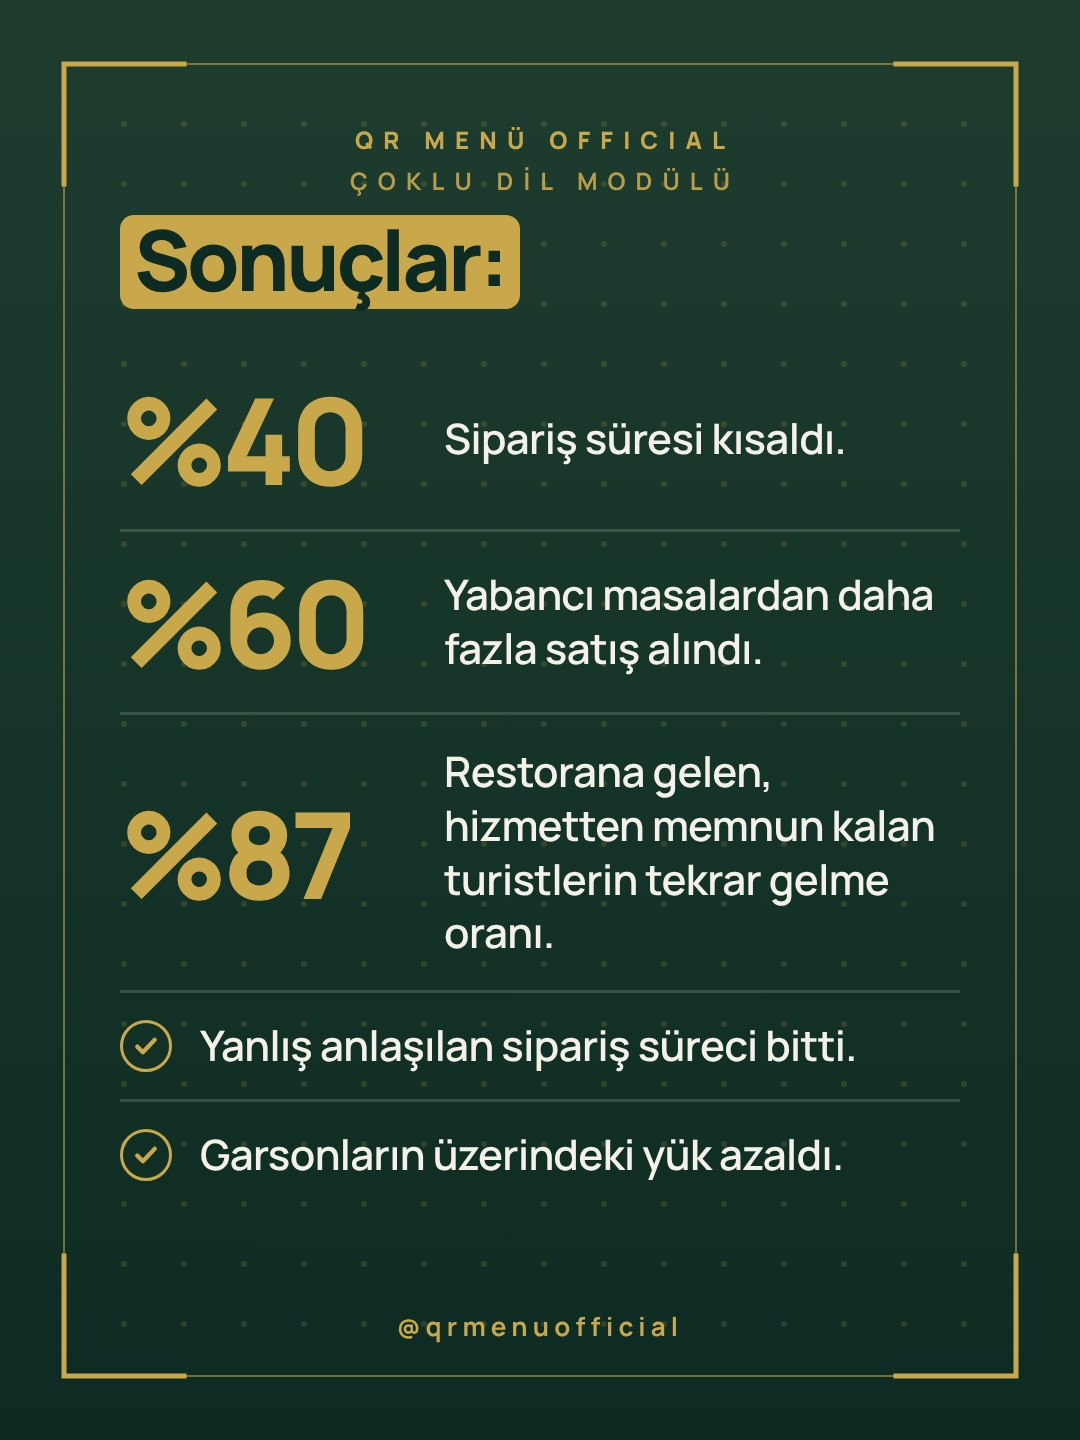
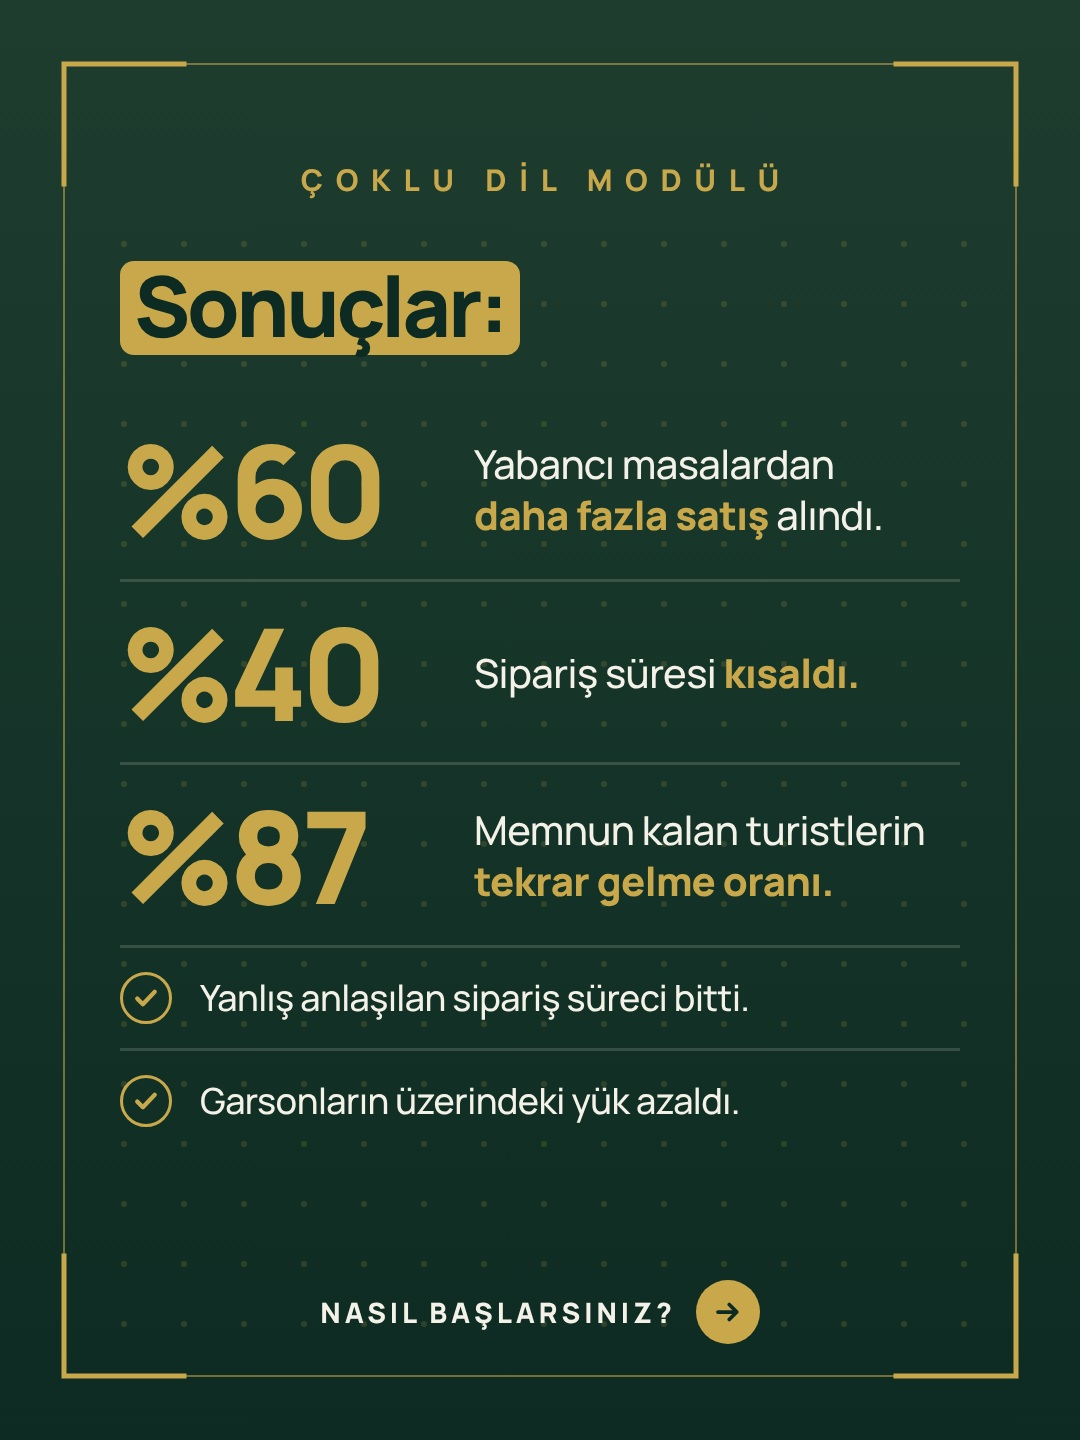
Carousel slayt 4: sonuçlar, %60 öne, anlamlı vurgu, CTA
Claude-Session: https://claude.ai/code/session_01FBw9rVwrniVjyFvtgVdFXq

diff --git a/analiz/carousel-dil/carousel-v6.html b/analiz/carousel-dil/carousel-v6.html
@@ -101,6 +101,12 @@ body{background:linear-gradient(var(--y2),var(--y))!important;color:var(--off)!i
 .p4{font-weight:500;font-size:42px;line-height:1.32;letter-spacing:-.01em}
 .p4 b{color:var(--g)}
 .p3 span,.p4 span{display:block;white-space:nowrap}
+.row{grid-template-columns:330px 1fr!important;padding:26px 0!important}
+.row .num{font-size:128px!important;line-height:1}
+.row .d{font-size:40px!important;font-weight:500!important;line-height:1.28}
+.row .d b,.chk .d b{color:var(--g);font-weight:800}
+.chk{padding:24px 0!important}
+.chk .d{font-size:36px!important;font-weight:500!important}
 </style></head><body>
 <svg class="rg a" width="1080" height="1440" viewBox="0 0 1080 1440" fill="none"><g><circle cx="1200" cy="300" r="180" stroke="#0D2B22" stroke-width="3.0" opacity="0.198"/><circle cx="1200" cy="300" r="300" stroke="#0D2B22" stroke-width="2.6" opacity="0.162"/><circle cx="1200" cy="300" r="420" stroke="#0D2B22" stroke-width="2.2" opacity="0.126"/><circle cx="1200" cy="300" r="540" stroke="#0D2B22" stroke-width="2.0" opacity="0.095"/><circle cx="1200" cy="300" r="660" stroke="#0D2B22" stroke-width="1.6" opacity="0.068"/><circle cx="1200" cy="300" r="780" stroke="#0D2B22" stroke-width="1.4" opacity="0.045"/><circle cx="1200" cy="300" r="900" stroke="#0D2B22" stroke-width="1.2" opacity="0.032"/></g><g><circle cx="-120" cy="1560" r="180" stroke="#0D2B22" stroke-width="2.4" opacity="0.135"/><circle cx="-120" cy="1560" r="300" stroke="#0D2B22" stroke-width="2" opacity="0.099"/><circle cx="-120" cy="1560" r="420" stroke="#0D2B22" stroke-width="1.6" opacity="0.068"/><circle cx="-120" cy="1560" r="520" stroke="#0D2B22" stroke-width="1.3" opacity="0.045"/></g></svg> <svg class="rg z" width="1080" height="1440" viewBox="0 0 1080 1440" fill="none"><g><circle cx="1200" cy="300" r="180" stroke="#C9A84C" stroke-width="3.0" opacity="0.242"/><circle cx="1200" cy="300" r="300" stroke="#C9A84C" stroke-width="2.6" opacity="0.198"/><circle cx="1200" cy="300" r="420" stroke="#C9A84C" stroke-width="2.2" opacity="0.154"/><circle cx="1200" cy="300" r="540" stroke="#C9A84C" stroke-width="2.0" opacity="0.116"/><circle cx="1200" cy="300" r="660" stroke="#C9A84C" stroke-width="1.6" opacity="0.083"/><circle cx="1200" cy="300" r="780" stroke="#C9A84C" stroke-width="1.4" opacity="0.055"/><circle cx="1200" cy="300" r="900" stroke="#C9A84C" stroke-width="1.2" opacity="0.039"/></g><g><circle cx="-120" cy="1560" r="180" stroke="#C9A84C" stroke-width="2.4" opacity="0.165"/><circle cx="-120" cy="1560" r="300" stroke="#C9A84C" stroke-width="2" opacity="0.121"/><circle cx="-120" cy="1560" r="420" stroke="#C9A84C" stroke-width="1.6" opacity="0.083"/><circle cx="-120" cy="1560" r="520" stroke="#C9A84C" stroke-width="1.3" opacity="0.055"/></g></svg>
 <svg class="fr" width="1080" height="1440" viewBox="0 0 1080 1440" fill="none" stroke="#C9A84C" stroke-linecap="square"><rect x="64" y="64" width="952" height="1312" stroke-width="2" opacity=".55"/><g stroke-width="5"><path d="M64 184V64h120M896 64h120v120M1016 1256v120H896M184 1376H64V1256"/></g></svg><svg style="position:absolute;inset:0;z-index:0" width="1080" height="1440" fill="#C9A84C" opacity=".17"><circle cx="124" cy="244" r="3"/><circle cx="124" cy="304" r="3"/><circle cx="124" cy="364" r="3"/><circle cx="124" cy="424" r="3"/><circle cx="124" cy="484" r="3"/><circle cx="124" cy="544" r="3"/><circle cx="124" cy="604" r="3"/><circle cx="124" cy="664" r="3"/><circle cx="124" cy="724" r="3"/><circle cx="124" cy="784" r="3"/><circle cx="124" cy="844" r="3"/><circle cx="124" cy="904" r="3"/><circle cx="124" cy="964" r="3"/><circle cx="124" cy="1024" r="3"/><circle cx="124" cy="1084" r="3"/><circle cx="124" cy="1144" r="3"/><circle cx="124" cy="1204" r="3"/><circle cx="124" cy="1264" r="3"/><circle cx="124" cy="1324" r="3"/><circle cx="184" cy="244" r="3"/><circle cx="184" cy="304" r="3"/><circle cx="184" cy="364" r="3"/><circle cx="184" cy="424" r="3"/><circle cx="184" cy="484" r="3"/><circle cx="184" cy="544" r="3"/><circle cx="184" cy="604" r="3"/><circle cx="184" cy="664" r="3"/><circle cx="184" cy="724" r="3"/><circle cx="184" cy="784" r="3"/><circle cx="184" cy="844" r="3"/><circle cx="184" cy="904" r="3"/><circle cx="184" cy="964" r="3"/><circle cx="184" cy="1024" r="3"/><circle cx="184" cy="1084" r="3"/><circle cx="184" cy="1144" r="3"/><circle cx="184" cy="1204" r="3"/><circle cx="184" cy="1264" r="3"/><circle cx="184" cy="1324" r="3"/><circle cx="244" cy="244" r="3"/><circle cx="244" cy="304" r="3"/><circle cx="244" cy="364" r="3"/><circle cx="244" cy="424" r="3"/><circle cx="244" cy="484" r="3"/><circle cx="244" cy="544" r="3"/><circle cx="244" cy="604" r="3"/><circle cx="244" cy="664" r="3"/><circle cx="244" cy="724" r="3"/><circle cx="244" cy="784" r="3"/><circle cx="244" cy="844" r="3"/><circle cx="244" cy="904" r="3"/><circle cx="244" cy="964" r="3"/><circle cx="244" cy="1024" r="3"/><circle cx="244" cy="1084" r="3"/><circle cx="244" cy="1144" r="3"/><circle cx="244" cy="1204" r="3"/><circle cx="244" cy="1264" r="3"/><circle cx="244" cy="1324" r="3"/><circle cx="304" cy="244" r="3"/><circle cx="304" cy="304" r="3"/><circle cx="304" cy="364" r="3"/><circle cx="304" cy="424" r="3"/><circle cx="304" cy="484" r="3"/><circle cx="304" cy="544" r="3"/><circle cx="304" cy="604" r="3"/><circle cx="304" cy="664" r="3"/><circle cx="304" cy="724" r="3"/><circle cx="304" cy="784" r="3"/><circle cx="304" cy="844" r="3"/><circle cx="304" cy="904" r="3"/><circle cx="304" cy="964" r="3"/><circle cx="304" cy="1024" r="3"/><circle cx="304" cy="1084" r="3"/><circle cx="304" cy="1144" r="3"/><circle cx="304" cy="1204" r="3"/><circle cx="304" cy="1264" r="3"/><circle cx="304" cy="1324" r="3"/><circle cx="364" cy="244" r="3"/><circle cx="364" cy="304" r="3"/><circle cx="364" cy="364" r="3"/><circle cx="364" cy="424" r="3"/><circle cx="364" cy="484" r="3"/><circle cx="364" cy="544" r="3"/><circle cx="364" cy="604" r="3"/><circle cx="364" cy="664" r="3"/><circle cx="364" cy="724" r="3"/><circle cx="364" cy="784" r="3"/><circle cx="364" cy="844" r="3"/><circle cx="364" cy="904" r="3"/><circle cx="364" cy="964" r="3"/><circle cx="364" cy="1024" r="3"/><circle cx="364" cy="1084" r="3"/><circle cx="364" cy="1144" r="3"/><circle cx="364" cy="1204" r="3"/><circle cx="364" cy="1264" r="3"/><circle cx="364" cy="1324" r="3"/><circle cx="424" cy="244" r="3"/><circle cx="424" cy="304" r="3"/><circle cx="424" cy="364" r="3"/><circle cx="424" cy="424" r="3"/><circle cx="424" cy="484" r="3"/><circle cx="424" cy="544" r="3"/><circle cx="424" cy="604" r="3"/><circle cx="424" cy="664" r="3"/><circle cx="424" cy="724" r="3"/><circle cx="424" cy="784" r="3"/><circle cx="424" cy="844" r="3"/><circle cx="424" cy="904" r="3"/><circle cx="424" cy="964" r="3"/><circle cx="424" cy="1024" r="3"/><circle cx="424" cy="1084" r="3"/><circle cx="424" cy="1144" r="3"/><circle cx="424" cy="1204" r="3"/><circle cx="424" cy="1264" r="3"/><circle cx="424" cy="1324" r="3"/><circle cx="484" cy="244" r="3"/><circle cx="484" cy="304" r="3"/><circle cx="484" cy="364" r="3"/><circle cx="484" cy="424" r="3"/><circle cx="484" cy="484" r="3"/><circle cx="484" cy="544" r="3"/><circle cx="484" cy="604" r="3"/><circle cx="484" cy="664" r="3"/><circle cx="484" cy="724" r="3"/><circle cx="484" cy="784" r="3"/><circle cx="484" cy="844" r="3"/><circle cx="484" cy="904" r="3"/><circle cx="484" cy="964" r="3"/><circle cx="484" cy="1024" r="3"/><circle cx="484" cy="1084" r="3"/><circle cx="484" cy="1144" r="3"/><circle cx="484" cy="1204" r="3"/><circle cx="484" cy="1264" r="3"/><circle cx="484" cy="1324" r="3"/><circle cx="544" cy="244" r="3"/><circle cx="544" cy="304" r="3"/><circle cx="544" cy="364" r="3"/><circle cx="544" cy="424" r="3"/><circle cx="544" cy="484" r="3"/><circle cx="544" cy="544" r="3"/><circle cx="544" cy="604" r="3"/><circle cx="544" cy="664" r="3"/><circle cx="544" cy="724" r="3"/><circle cx="544" cy="784" r="3"/><circle cx="544" cy="844" r="3"/><circle cx="544" cy="904" r="3"/><circle cx="544" cy="964" r="3"/><circle cx="544" cy="1024" r="3"/><circle cx="544" cy="1084" r="3"/><circle cx="544" cy="1144" r="3"/><circle cx="544" cy="1204" r="3"/><circle cx="544" cy="1264" r="3"/><circle cx="544" cy="1324" r="3"/><circle cx="604" cy="244" r="3"/><circle cx="604" cy="304" r="3"/><circle cx="604" cy="364" r="3"/><circle cx="604" cy="424" r="3"/><circle cx="604" cy="484" r="3"/><circle cx="604" cy="544" r="3"/><circle cx="604" cy="604" r="3"/><circle cx="604" cy="664" r="3"/><circle cx="604" cy="724" r="3"/><circle cx="604" cy="784" r="3"/><circle cx="604" cy="844" r="3"/><circle cx="604" cy="904" r="3"/><circle cx="604" cy="964" r="3"/><circle cx="604" cy="1024" r="3"/><circle cx="604" cy="1084" r="3"/><circle cx="604" cy="1144" r="3"/><circle cx="604" cy="1204" r="3"/><circle cx="604" cy="1264" r="3"/><circle cx="604" cy="1324" r="3"/><circle cx="664" cy="244" r="3"/><circle cx="664" cy="304" r="3"/><circle cx="664" cy="364" r="3"/><circle cx="664" cy="424" r="3"/><circle cx="664" cy="484" r="3"/><circle cx="664" cy="544" r="3"/><circle cx="664" cy="604" r="3"/><circle cx="664" cy="664" r="3"/><circle cx="664" cy="724" r="3"/><circle cx="664" cy="784" r="3"/><circle cx="664" cy="844" r="3"/><circle cx="664" cy="904" r="3"/><circle cx="664" cy="964" r="3"/><circle cx="664" cy="1024" r="3"/><circle cx="664" cy="1084" r="3"/><circle cx="664" cy="1144" r="3"/><circle cx="664" cy="1204" r="3"/><circle cx="664" cy="1264" r="3"/><circle cx="664" cy="1324" r="3"/><circle cx="724" cy="244" r="3"/><circle cx="724" cy="304" r="3"/><circle cx="724" cy="364" r="3"/><circle cx="724" cy="424" r="3"/><circle cx="724" cy="484" r="3"/><circle cx="724" cy="544" r="3"/><circle cx="724" cy="604" r="3"/><circle cx="724" cy="664" r="3"/><circle cx="724" cy="724" r="3"/><circle cx="724" cy="784" r="3"/><circle cx="724" cy="844" r="3"/><circle cx="724" cy="904" r="3"/><circle cx="724" cy="964" r="3"/><circle cx="724" cy="1024" r="3"/><circle cx="724" cy="1084" r="3"/><circle cx="724" cy="1144" r="3"/><circle cx="724" cy="1204" r="3"/><circle cx="724" cy="1264" r="3"/><circle cx="724" cy="1324" r="3"/><circle cx="784" cy="244" r="3"/><circle cx="784" cy="304" r="3"/><circle cx="784" cy="364" r="3"/><circle cx="784" cy="424" r="3"/><circle cx="784" cy="484" r="3"/><circle cx="784" cy="544" r="3"/><circle cx="784" cy="604" r="3"/><circle cx="784" cy="664" r="3"/><circle cx="784" cy="724" r="3"/><circle cx="784" cy="784" r="3"/><circle cx="784" cy="844" r="3"/><circle cx="784" cy="904" r="3"/><circle cx="784" cy="964" r="3"/><circle cx="784" cy="1024" r="3"/><circle cx="784" cy="1084" r="3"/><circle cx="784" cy="1144" r="3"/><circle cx="784" cy="1204" r="3"/><circle cx="784" cy="1264" r="3"/><circle cx="784" cy="1324" r="3"/><circle cx="844" cy="244" r="3"/><circle cx="844" cy="304" r="3"/><circle cx="844" cy="364" r="3"/><circle cx="844" cy="424" r="3"/><circle cx="844" cy="484" r="3"/><circle cx="844" cy="544" r="3"/><circle cx="844" cy="604" r="3"/><circle cx="844" cy="664" r="3"/><circle cx="844" cy="724" r="3"/><circle cx="844" cy="784" r="3"/><circle cx="844" cy="844" r="3"/><circle cx="844" cy="904" r="3"/><circle cx="844" cy="964" r="3"/><circle cx="844" cy="1024" r="3"/><circle cx="844" cy="1084" r="3"/><circle cx="844" cy="1144" r="3"/><circle cx="844" cy="1204" r="3"/><circle cx="844" cy="1264" r="3"/><circle cx="844" cy="1324" r="3"/><circle cx="904" cy="244" r="3"/><circle cx="904" cy="304" r="3"/><circle cx="904" cy="364" r="3"/><circle cx="904" cy="424" r="3"/><circle cx="904" cy="484" r="3"/><circle cx="904" cy="544" r="3"/><circle cx="904" cy="604" r="3"/><circle cx="904" cy="664" r="3"/><circle cx="904" cy="724" r="3"/><circle cx="904" cy="784" r="3"/><circle cx="904" cy="844" r="3"/><circle cx="904" cy="904" r="3"/><circle cx="904" cy="964" r="3"/><circle cx="904" cy="1024" r="3"/><circle cx="904" cy="1084" r="3"/><circle cx="904" cy="1144" r="3"/><circle cx="904" cy="1204" r="3"/><circle cx="904" cy="1264" r="3"/><circle cx="904" cy="1324" r="3"/><circle cx="964" cy="244" r="3"/><circle cx="964" cy="304" r="3"/><circle cx="964" cy="364" r="3"/><circle cx="964" cy="424" r="3"/><circle cx="964" cy="484" r="3"/><circle cx="964" cy="544" r="3"/><circle cx="964" cy="604" r="3"/><circle cx="964" cy="664" r="3"/><circle cx="964" cy="724" r="3"/><circle cx="964" cy="784" r="3"/><circle cx="964" cy="844" r="3"/><circle cx="964" cy="904" r="3"/><circle cx="964" cy="964" r="3"/><circle cx="964" cy="1024" r="3"/><circle cx="964" cy="1084" r="3"/><circle cx="964" cy="1144" r="3"/><circle cx="964" cy="1204" r="3"/><circle cx="964" cy="1264" r="3"/><circle cx="964" cy="1324" r="3"/></svg><div class="s" id="S"></div>
@@ -146,15 +152,15 @@ const SL={
   <div class="p4" id="P4">${L(['Sadece işletmeler için değil,','{{turist müşteriler için de fark yarattı.}}'])}</div>
   <div class="h" id="H" data-max="84" data-min="68" style="margin-top:112px">${L(["Peki sonuçlar",'ne oldu?'])}</div>
  </div>${nx('Sonuçları görün','#F4F1E8')}`},
-4:{bg:'krem',html:()=>`<div class="lab">${MOD}</div>
- <div class="area top"><div class="h" id="H" data-max="84" data-min="64">${L(['[[Sonuçlar:]]'])}</div>
- <div style="margin-top:40px">
-  <div class="row"><div class="num">%40</div><div class="d">Sipariş süresi kısaldı.</div></div>
-  <div class="row"><div class="num">%60</div><div class="d">Yabancı masalardan daha fazla satış alındı.</div></div>
-  <div class="row"><div class="num">%87</div><div class="d">Restorana gelen, hizmetten memnun kalan turistlerin tekrar gelme oranı.</div></div>
+4:{bg:'krem',html:()=>`<div class="lab" style="font-size:30px;padding-top:34px">ÇOKLU DİL MODÜLÜ</div>
+ <div class="area top" style="top:236px;bottom:240px"><div class="h" id="H" data-max="84" data-min="68">${L(['[[Sonuçlar:]]'])}</div>
+ <div style="margin-top:44px">
+  <div class="row"><div class="num">%60</div><div class="d">Yabancı masalardan<br><b>daha fazla satış</b> alındı.</div></div>
+  <div class="row"><div class="num">%40</div><div class="d">Sipariş süresi <b>kısaldı.</b></div></div>
+  <div class="row"><div class="num">%87</div><div class="d">Memnun kalan turistlerin <b>tekrar gelme oranı.</b></div></div>
   <div class="chk"><i>${CHK}</i><div class="d">Yanlış anlaşılan sipariş süreci bitti.</div></div>
   <div class="chk"><i>${CHK}</i><div class="d">Garsonların üzerindeki yük azaldı.</div></div>
- </div></div>${FT}`},
+ </div></div>${nx('Nasıl başlarsınız?','#F4F1E8')}`},
 5:{bg:'zumrut',html:()=>`<div class="lab">${MOD}</div>
  <div class="area c"><div class="h" id="H" data-max="72" data-min="60">${L(['Yalnızca bir dil modülü','değil: işletmenizin','satışlarını [[%150]] artıracak,','birden fazla modül','barındıran QR menü.'])}</div>
  <div class="chips"><span>Garson &amp; Hesap</span><span>QR Masa</span><span>Yorum &amp; Feedback</span><span>Menü Asistanı</span><span>Akıllı Filtreleme</span><span>Menü Analitiği</span></div>
